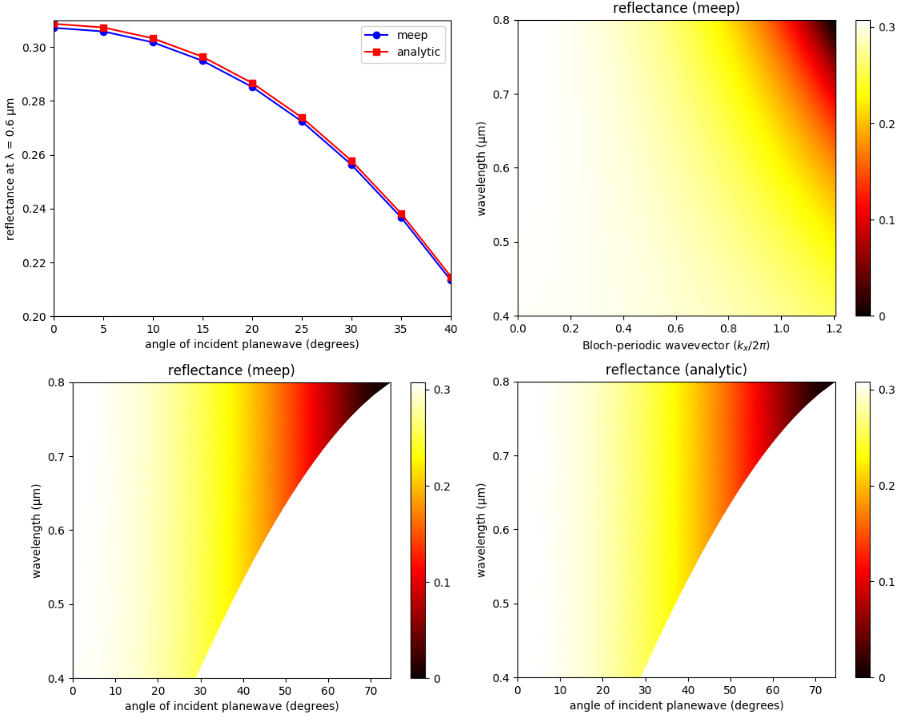
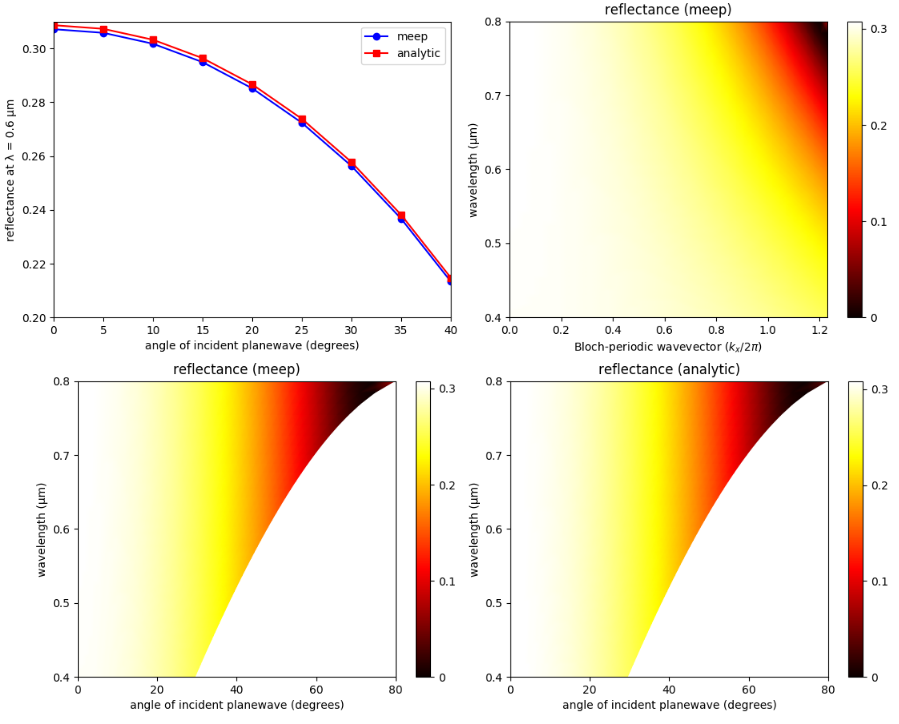
more tweaks

diff --git a/python/examples/refl-angular.py b/python/examples/refl-angular.py
@@ -12,12 +12,12 @@ def main(args):
     cell_size = mp.Vector3(0,0,sz)
     pml_layers = [ mp.PML(dpml) ]
 
-    wvl_min = 0.4                   # minimum wavelength of source
-    wvl_max = 0.8                   # maximum wavelength of source
-    fmin = 1/wvl_max                # minimum frequency of source
-    fmax = 1/wvl_min                # maximum frequency of source
-    fcen = 0.5*(fmin+fmax)          # center frequency of source
-    df = fmax-fmin                  # frequency width of source
+    wvl_min = 0.4                   # min wavelength
+    wvl_max = 0.8                   # max wavelength
+    fmin = 1/wvl_max                # min frequency
+    fmax = 1/wvl_min                # max frequency
+    fcen = 0.5*(fmin+fmax)          # center frequency
+    df = fmax-fmin                  # frequency width
     nfreq = 50                      # number of frequency bins
     
     # rotation angle (in degrees) of source: CCW around y axis, 0 degrees along +z axis
@@ -26,7 +26,7 @@ def main(args):
     # plane of incidence is xz
     k = mp.Vector3(math.sin(theta_r),0,math.cos(theta_r)).scale(fcen)
     
-    # if source is at normal incidence, force number of dimensions to be 1
+    # if normal incidence, force number of dimensions to be 1
     if theta_r == 0:
         dimensions = 1
     else:

diff --git a/doc/docs/Python_Tutorials/Basics.md b/doc/docs/Python_Tutorials/Basics.md
@@ -449,12 +449,12 @@ def main(args):
     cell_size = mp.Vector3(0,0,sz)
     pml_layers = [ mp.PML(dpml) ]
 
-    wvl_min = 0.4           # minimum wavelength of source
-    wvl_max = 0.8           # maximum wavelength of source
-    fmin = 1/wvl_max        # minimum frequency of source
-    fmax = 1/wvl_min        # maximum frequency of source
-    fcen = 0.5*(fmin+fmax)  # center frequency of source
-    df = fmax-fmin          # frequency width of source
+    wvl_min = 0.4           # min wavelength
+    wvl_max = 0.8           # max wavelength
+    fmin = 1/wvl_max        # min frequency
+    fmax = 1/wvl_min        # max frequency
+    fcen = 0.5*(fmin+fmax)  # center frequency
+    df = fmax-fmin          # frequency width
     nfreq = 50              # number of frequency bins
     
     # rotation angle (in degrees) of source: CCW around y axis, 0 degrees along +z axis
@@ -463,7 +463,7 @@ def main(args):
     # plane of incidence is xz
     k = mp.Vector3(math.sin(theta_r),0,math.cos(theta_r)).scale(fcen)
 
-    # if source is at normal incidence, force number of dimensions to be 1
+    # if normal incidence, force number of dimensions to be 1
     if theta_r == 0:
         dimensions = 1
     else:
@@ -524,15 +524,15 @@ Note that there are two argument parameters which can be passed to the script at
 ```sh
 #!/bin/bash
 
-for i in `seq 0 40`; do
+for i in `seq 0 41`; do
     python refl-angular.py -theta $i |tee -a flux_t${i}.out;
-    grep refl: flux_t${i}.out |cut -d , -f2- > flux_t${i}.dat
+    grep refl: flux_t${i}.out |cut -d , -f2- > flux_t${i}.dat;
 done
 ```
 
 Two-dimensional plots of the angular reflectance spectrum based on the simulated data and the analytic [Fresnel equations](https://en.wikipedia.org/wiki/Fresnel_equations) are generated using the Python script below. The plots are shown in the accompanying figure with four insets. The top left inset shows the simulated and analytic reflectance spectra at a wavelength of 0.6 μm. The top right inset shows the simulated reflectance spectrum as a function of the source wavelength λ and Bloch-periodic wavevector $k_x$: $R(\lambda, k_x)$. The lower left inset is a transformation of $R(\lambda, k_x)$ into $R(\lambda, \theta)$. Note how the range of angles depends on the wavelength. For a given angle, the reflectance is a constant for all wavelengths due to the dispersionless dielectric. The lower right inset is the analytic reflectance spectrum computed using the Fresnel equations. There is agreement between the simulated and analytic results.
 
-In order to generate results for the missing portion of the reflectance spectrum (i.e., the white region), we will need to rerun the simulations using a modified source with a center frequency closer to a wavelength of 0.4 μm and smaller bandwidth. These can both be accomplished by reducing the `wvl_max` parameter above.
+In order to generate results for the missing portion of the reflectance spectrum (i.e., the white region), we will need to rerun the simulations using a narrower bandwidth source centered at several of the missing wavelengths and also extend the angular range beyond 40$^\circ$.
 
 ```py
 import matplotlib.pyplot as plt
@@ -540,10 +540,10 @@ import numpy as np
 import numpy.matlib
 import math
 
-theta_in = np.arange(0,41)
-kxs = np.empty((50, theta_in.size))
-thetas = np.empty((50, theta_in.size))
-Rmeep = np.empty((50, theta_in.size))
+theta_in = np.arange(0,42)
+kxs = np.empty((50,theta_in.size))
+thetas = np.empty((50,theta_in.size))
+Rmeep = np.empty((50,theta_in.size))
 
 for j in range(0,theta_in.size):
   f = np.genfromtxt("flux_t{}.dat".format(theta_in[j]), delimiter=",")
@@ -563,20 +563,21 @@ plt.xlabel("Bloch-periodic wavevector ($k_x/2π$)")
 plt.ylabel("wavelength (μm)")
 plt.title("reflectance (meep)")
 cbar = plt.colorbar()
-cbar.set_ticks([0, 0.1, 0.2, 0.3]);
-cbar.set_ticklabels([0, 0.1, 0.2, 0.3]);
+cbar.set_ticks([0, 0.1, 0.2, 0.3])
+cbar.set_ticklabels([0, 0.1, 0.2, 0.3])
 plt.show()
 
 plt.figure(dpi=100)
 plt.pcolormesh(thetas, wvls, Rmeep, cmap='hot', shading='gouraud', vmin=0, vmax=Rmeep.max())
 plt.axis([thetas.min(), thetas.max(), wvl[-1], wvl[0]])
+plt.xticks([t for t in range(0,100,20)])
 plt.yticks([t for t in np.arange(0.4,0.9,0.1)])
 plt.xlabel("angle of incident planewave (degrees)")
 plt.ylabel("wavelength (μm)")
 plt.title("reflectance (meep)")
 cbar = plt.colorbar()
-cbar.set_ticks([0, 0.1, 0.2, 0.3]);
-cbar.set_ticklabels([0, 0.1, 0.2, 0.3]);
+cbar.set_ticks([0, 0.1, 0.2, 0.3])
+cbar.set_ticklabels([0, 0.1, 0.2, 0.3])
 plt.show()
 
 n1=1
@@ -598,13 +599,14 @@ for m in range(0,wvl.size):
 plt.figure(dpi=100)
 plt.pcolormesh(thetas, wvls, Ranalytic, cmap='hot', shading='gouraud', vmin=0, vmax=Ranalytic.max())
 plt.axis([thetas.min(), thetas.max(), wvl[-1], wvl[0]])
+plt.xticks([t for t in range(0,100,20)])
 plt.yticks([t for t in np.arange(0.4,0.9,0.1)])
 plt.xlabel("angle of incident planewave (degrees)")
 plt.ylabel("wavelength (μm)")
 plt.title("reflectance (analytic)")
 cbar = plt.colorbar()
-cbar.set_ticks([0, 0.1, 0.2, 0.3]);
-cbar.set_ticklabels([0, 0.1, 0.2, 0.3]);
+cbar.set_ticks([0, 0.1, 0.2, 0.3])
+cbar.set_ticklabels([0, 0.1, 0.2, 0.3])
 plt.show()
 ```
 

diff --git a/doc/docs/Scheme_Tutorials/Basics.md b/doc/docs/Scheme_Tutorials/Basics.md
@@ -465,7 +465,7 @@ The following Bash shell script runs the simulation for the wavelength range of 
 ```sh
 #!/bin/bash
 
-for i in `seq 0 40`; do
+for i in `seq 0 41`; do
     meep empty?=true theta=${i} refl-angular.ctl |tee -a flux0_t${i}.out;
     grep flux1: flux0_t${i}.out |cut -d , -f2- > flux0_t${i}.dat
     meep empty?=false theta=${i} refl-angular.ctl |tee -a flux_t${i}.out;
@@ -475,10 +475,10 @@ done
 
 Two-dimensional plots of the angular reflectance spectrum based on the simulated data and the analytic [Fresnel equations](https://en.wikipedia.org/wiki/Fresnel_equations) are generated using the Octave/Matlab script below. The plots are shown in the accompanying figure with four insets. The top left inset shows the simulated and analytic reflectance spectra at a wavelength of 0.6 μm. The top right inset shows the simulated reflectance spectrum as a function of the wavelength λ and wavevector $k_x$: $R(\lambda, k_x)$. The lower left inset is a transformation of $R(\lambda, k_x)$ into $R(\lambda, \theta)$. Note how the range of angles depends on the wavelength. For a given angle, the reflectance is a constant for all wavelengths due to the dispersionless dielectric. The lower right inset is the analytic reflectance spectrum computed using the Fresnel equations. There is agreement between the simulated and analytic results.
 
-In order to generate results for the missing portion of the reflectance spectrum (i.e., the white region), we will need to rerun the simulations using a modified source with a center frequency closer to a wavelength of 0.4 μm and smaller bandwidth. These can both be accomplished by reducing the `wvl-max` parameter above.
+In order to generate results for the missing portion of the reflectance spectrum (i.e., the white region), we will need to rerun the simulations using a narrower bandwidth source centered at several of the missing wavelengths and also extend the angular range beyond 40$^\circ$.
 
 ```matlab
-theta_in = [ 0:40 ];
+theta_in = [ 0:41 ];
 Rmeep = [];
 for j = 1:length(theta_in)
   f0 = dlmread(sprintf("flux0_t%d.dat",theta_in(j)),',');
@@ -502,7 +502,9 @@ thetas = asind(kxs./freqs);
 figure;
 pcolor(kxs,wvls,Rmeep);
 shading interp; c = colormap("hot"); colormap(c); colorbar;
-eval(sprintf("axis([%0.2g %0.2g %0.2g %0.2g])",min(kx),max(kx),min(wvl),max(wvl)));
+eval(sprintf("axis([%0.2g %0.2g %0.2g %0.2g])",kx(1),kx(end),min(wvl),max(wvl)));
+eval(sprintf("set(gca, 'xtick', [%0.2g:0.2:%0.2g])",kx(1),kx(end)));
+eval(sprintf("set(gca, 'ytick', [%0.1g:0.1:%0.1g])",wvl(end),wvl(1)));
 xlabel("wavevector of Bloch-Periodic boundary condition (k_x/2π)");
 ylabel("wavelength (μm)");
 title("reflectance (meep)");
@@ -511,6 +513,8 @@ figure;
 pcolor(thetas,wvls,Rmeep);
 shading interp; c = colormap("hot"); colormap(c); colorbar;
 eval(sprintf("axis([%0.2g %0.2g %0.2g %0.2g])",min(min(thetas)),max(max(thetas)),min(wvl),max(wvl)));
+eval(sprintf("set(gca, 'xtick', [%d:20:%d])",min(min(thetas)),max(max(thetas))));
+eval(sprintf("set(gca, 'ytick', [%0.1g:0.1:%0.1g])",wvl(end),wvl(1)));
 xlabel("angle of incident planewave (degrees)");
 ylabel("wavelength (μm)");
 title("reflectance (meep)");
@@ -532,6 +536,8 @@ figure;
 pcolor(thetas,wvls,Ranalytic);
 shading interp; c = colormap("hot"); colormap(c); colorbar;
 eval(sprintf("axis([%0.2g %0.2g %0.2g %0.2g])",min(min(thetas)),max(max(thetas)),min(wvl),max(wvl)));
+eval(sprintf("set(gca, 'xtick', [%d:20:%d])",min(min(thetas)),max(max(thetas))));
+eval(sprintf("set(gca, 'ytick', [%0.1g:0.1:%0.1g])",wvl(end),wvl(1)));
 xlabel("angle of incident planewave (degrees)");
 ylabel("wavelength (μm)");
 title("reflectance (analytic)");
